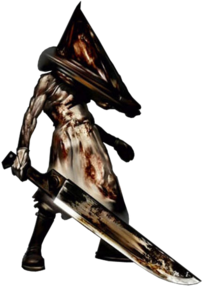
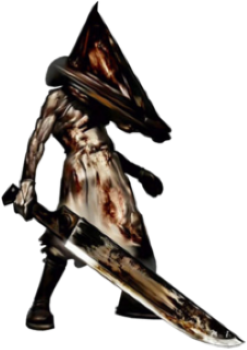
Eliminated two characters from shcanvas.html and made a few changes

diff --git a/Silentdex/shcanvas.js b/Silentdex/shcanvas.js
@@ -22,14 +22,6 @@ background.image = new Image();
 background.image.src = background.url;
 background.image.addEventListener("load", loadbackground);
 
-valtiel.image = new Image();
-valtiel.image.src = valtiel.url;
-valtiel.image.addEventListener("load", loadvaltiel);
-
-abstractdaddy.image = new Image();
-abstractdaddy.image.src = abstractdaddy.url;
-abstractdaddy.image.addEventListener("load", loadabstractdaddy);
-
 pyramidhead.image = new Image();
 pyramidhead.image.src = pyramidhead.url;
 pyramidhead.image.addEventListener("load", loadpyramidhead);
@@ -38,16 +30,6 @@ pyramidhead.image.addEventListener("load", loadpyramidhead);
 function loadbackground()
 {
   background.loadOK = true;
-  draw();
-}
-function loadvaltiel()
-{
-  valtiel.loadOK = true;
-  draw();
-}
-function loadabstractdaddy()
-{
-  abstractdaddy.loadOK = true;
   draw();
 }
 function loadpyramidhead()
@@ -64,14 +46,11 @@ function draw()
   }
   if(background.loadOK)
   {
-    paper.drawImage(valtiel.image, 500, 120);
+    paper.drawImage(pyramidhead.image, 600, 120);
   }
-  if(background.loadOK)
-  {
-    paper.drawImage(abstractdaddy.image, 250, 130);
-  }
-  if(background.loadOK)
-  {
-    paper.drawImage(pyramidhead.image, 0, 0);
-  }
+  paper.font = "30px Arial";
+  paper.fillStyle = "red";
+  paper.textAlign = "center";
+  paper.fillText("Pyramid Head", vp.width/5, vp.height/2);
+  paper.font = "30px Arial";
 }

diff --git a/Silentdex/estilos_shcanvas.css b/Silentdex/estilos_shcanvas.css
@@ -1,7 +1,7 @@
 body
 {
     background: black;
-    text-align: left;
+    text-align: "left";
     font-family: "Arial";
     font-size: 16px;
     margin: 0;
